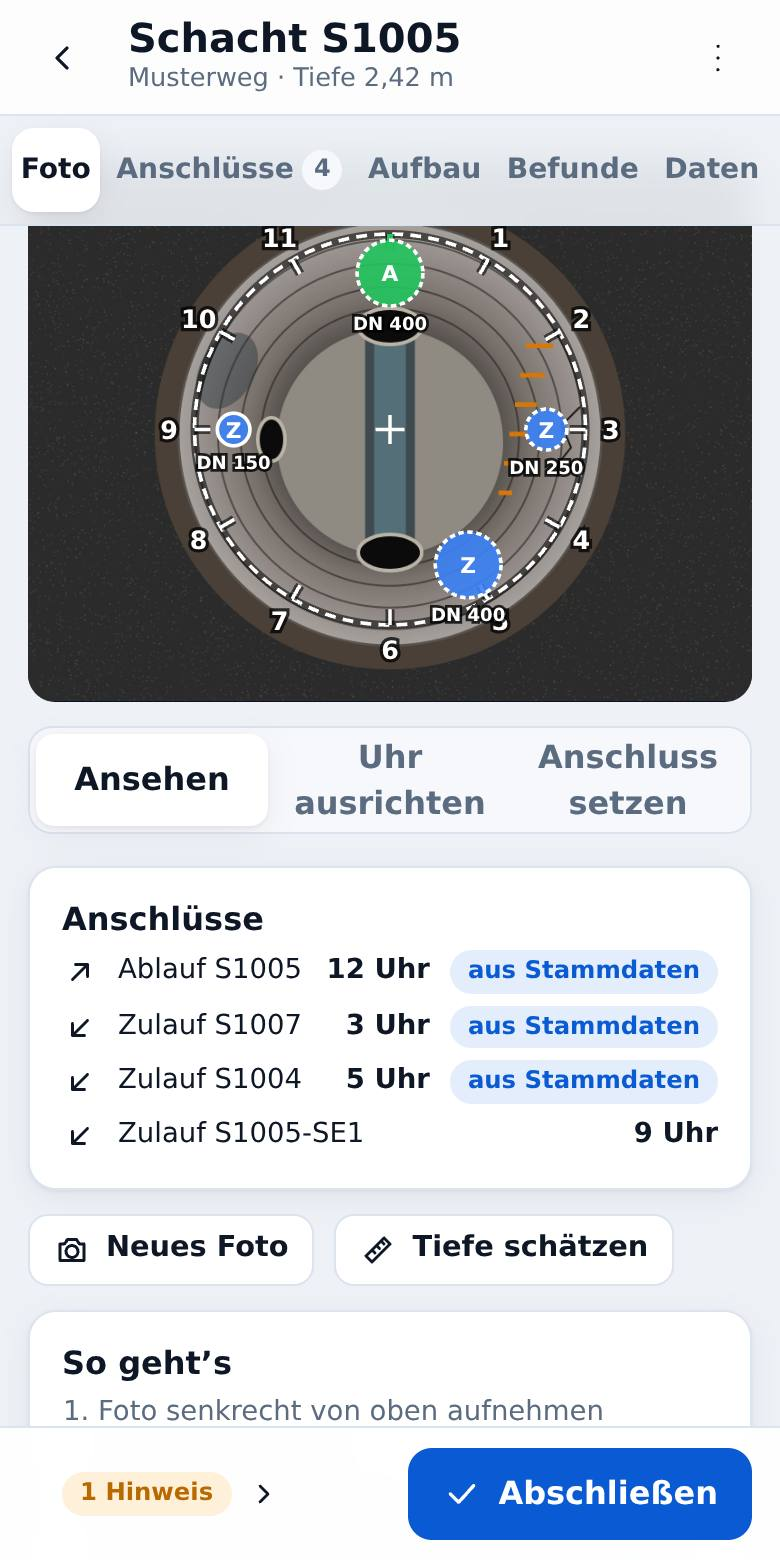
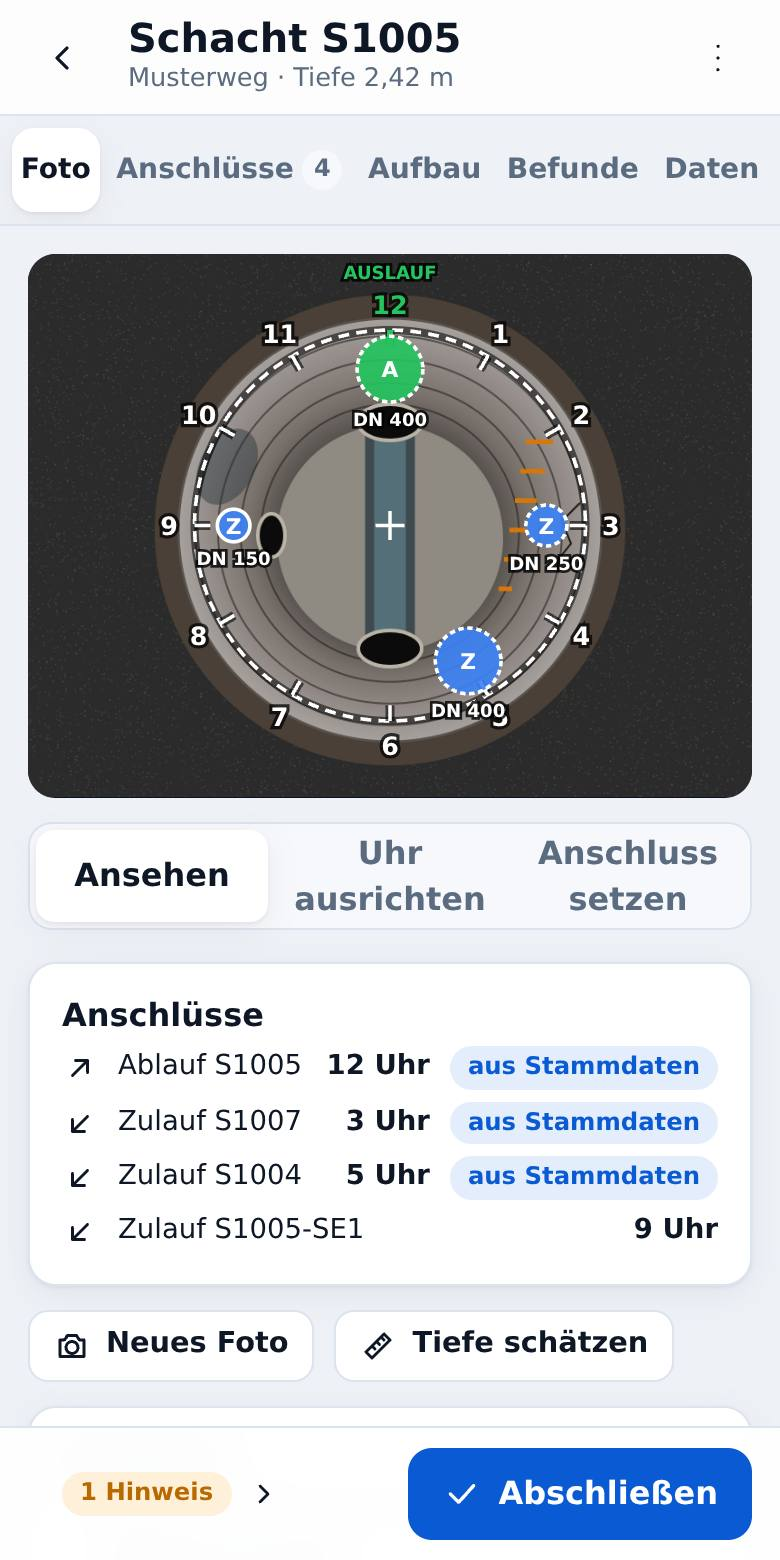
3D-Modell: Gerinne folgt dem Hauptzulauf
- Gerinne verläuft vom Hauptzulauf (tiefster Zulauf, bei gleicher Höhe der
  größte) im Bogen zum Auslauf statt immer gerade von 6 nach 12 Uhr; bei
  gegenüberliegenden Anschlüssen weiterhin gerade
- Berme links und rechts an den Verlauf angepasst, Rinne als Halbschale entlang
  der Kurve; gilt auch für das 3D-Bild im PDF-Protokoll
- Geometrie als reine Funktion (gerinneVerlauf) mit Tests; Bilder der
  Info-Seite neu erzeugt; Version 0.6.3

Claude-Session: https://claude.ai/code/session_01FwQYApyVF8ufwKu8TMpCht

Changed region(s): [[0.0308, 0.1231, 0.9846, 0.9231]]

diff --git a/app/js/components/modell3d.js b/app/js/components/modell3d.js
@@ -27,6 +27,65 @@ function anschlussHoehe(c, T) {
   return c.lageMode === 'oben' ? Math.max(0, T - v) : v;
 }
 
+// Draufsicht: Uhrzeit -> Richtung in der x/z-Ebene (12 Uhr = -z, 3 Uhr = +x)
+const richtung = (clock) => { const p = (Number(clock) % 12) * Math.PI / 6; return [Math.sin(p), -Math.cos(p)]; };
+
+/**
+ * Gerinne-Anschlüsse: Auslauf (Bezug, sonst erster Auslauf) und Hauptzulauf = tiefster Zulauf,
+ * bei gleicher Höhe (± 5 cm) der größte. Ohne Zulauf läuft das Gerinne gerade von gegenüber.
+ */
+export function gerinneAnschluesse(connections = [], T = 0) {
+  const mitUhr = connections.filter((c) => c.clock);
+  const aus = mitUhr.find((c) => c.dir === 'out' && c.isReference) || mitUhr.find((c) => c.dir === 'out');
+  const zu = mitUhr.filter((c) => c.dir === 'in');
+  let haupt = null;
+  if (zu.length) {
+    const tief = Math.min(...zu.map((c) => anschlussHoehe(c, T)));
+    haupt = zu.filter((c) => anschlussHoehe(c, T) <= tief + 0.05).sort((a, b) => (Number(b.dn) || 0) - (Number(a.dn) || 0))[0];
+  }
+  const uhrAus = aus ? Number(aus.clock) % 12 : 0;
+  let uhrZu = haupt ? Number(haupt.clock) % 12 : (uhrAus + 6) % 12;
+  if (uhrZu === uhrAus) uhrZu = (uhrAus + 6) % 12; // Zulauf genau am Auslauf: gerade durch
+  return { aus, haupt, uhrAus, uhrZu };
+}
+
+/**
+ * Verlauf des Gerinnes in der Draufsicht (ohne three.js, testbar): Achse als kubische Bézierkurve von
+ * der Wand beim Hauptzulauf zur Wand beim Auslauf (Hilfspunkte 30 % des Radius vor der Mitte – bei
+ * gegenüberliegenden Anschlüssen eine Gerade), dazu die Ränder links/rechts im Abstand `w` als
+ * Umriss der Berme. Punkte als [x, z]; liefert {achse, tangenten, links, rechts}.
+ */
+export function gerinneVerlauf({ uhrZu, uhrAus, rInnen, w, n = 48 }) {
+  const [ix, iz] = richtung(uhrZu);
+  const [ox, oz] = richtung(uhrAus);
+  const P = [[ix * rInnen, iz * rInnen], [ix * rInnen * 0.3, iz * rInnen * 0.3], [ox * rInnen * 0.3, oz * rInnen * 0.3], [ox * rInnen, oz * rInnen]];
+  const bez = (t) => {
+    const u = 1 - t, a = u * u * u, b = 3 * u * u * t, c = 3 * u * t * t, d = t * t * t;
+    return [a * P[0][0] + b * P[1][0] + c * P[2][0] + d * P[3][0], a * P[0][1] + b * P[1][1] + c * P[2][1] + d * P[3][1]];
+  };
+  const abl = (t) => {
+    const u = 1 - t;
+    const dx = 3 * u * u * (P[1][0] - P[0][0]) + 6 * u * t * (P[2][0] - P[1][0]) + 3 * t * t * (P[3][0] - P[2][0]);
+    const dz = 3 * u * u * (P[1][1] - P[0][1]) + 6 * u * t * (P[2][1] - P[1][1]) + 3 * t * t * (P[3][1] - P[2][1]);
+    const l = Math.hypot(dx, dz) || 1;
+    return [dx / l, dz / l];
+  };
+  const achse = [], tangenten = [];
+  for (let i = 0; i <= n; i++) { achse.push(bez(i / n)); tangenten.push(abl(i / n)); }
+  // Ränder; Punkte, die in engen Bögen rückwärts laufen würden, weglassen (keine Schleifen)
+  const rand = (s) => {
+    const roh = achse.map(([x, z], i) => { const [tx, tz] = tangenten[i]; return [x - tz * w * s, z + tx * w * s]; });
+    const out = [roh[0]];
+    for (let i = 1; i < roh.length; i++) {
+      const q = out[out.length - 1];
+      const [tx, tz] = tangenten[i];
+      if ((roh[i][0] - q[0]) * tx + (roh[i][1] - q[1]) * tz > 1e-4 || i === roh.length - 1) out.push(roh[i]);
+    }
+    return out;
+  };
+  return { achse, tangenten, links: rand(1), rechts: rand(-1) };
+}
+
 /**
  * Szene aufbauen. Liefert {group, masse, center, size}.
  * @param THREE three.js-Modul
@@ -112,36 +171,77 @@ export function baueSchacht(THREE, { bauteile, inspection }) {
   deckel.rotation.set(-0.35, 0, 0.25);
   g.add(deckel);
 
-  // Berme mit Gerinne (gerade vom Zulauf gegenüber zum Auslauf bei 12 Uhr)
-  const out = (inspection?.connections || []).find((c) => c.dir === 'out');
-  const dnOut = Math.min(0.8, Math.max(0.15, (Number(out?.dn) || 300) / 1000));
+  // Berme mit Gerinne: vom Hauptzulauf im Bogen zum Auslauf (bei gegenüberliegenden Anschlüssen gerade)
+  const ga = gerinneAnschluesse(inspection?.connections || [], T);
+  const dnOut = Math.min(0.8, Math.max(0.15, (Number(ga.aus?.dn) || 300) / 1000));
   const rC = dnOut / 2;
   const rInnen = M.unterteilDa ? (M.unterteil.eckig ? Math.min(M.unterteil.l, M.unterteil.w) / 2 : rU) : rOben;
   const bisScheitel = ['1', '3', '4'].includes(M.gerinne);
   const hBerme = !M.gerinne ? 0 : bisScheitel ? dnOut : rC;
   if (M.gerinne && M.unterteilDa && rInnen > rC + 0.05) {
-    const w = rC;
-    const side = (sgn) => {
-      const s = new THREE.Shape();
-      const a = Math.acos(Math.min(0.999, w / rInnen));
-      const y0 = Math.sqrt(rInnen * rInnen - w * w);
-      s.moveTo(sgn * w, -y0);
-      if (sgn > 0) s.absarc(0, 0, rInnen, -a, a, false);
-      else s.absarc(0, 0, rInnen, Math.PI + a, Math.PI - a, true);
-      s.lineTo(sgn * w, -y0);
-      const geo = new THREE.ExtrudeGeometry(s, { depth: hBerme, bevelEnabled: false, curveSegments: 32 });
+    const v = gerinneVerlauf({ uhrZu: ga.uhrZu, uhrAus: ga.uhrAus, rInnen, w: rC });
+    // Berme: Fläche zwischen einem Gerinnerand und der Wand auf derselben Seite (s = +1 links, -1 rechts)
+    const naechster = ([x, z]) => {
+      let k = 0, best = Infinity;
+      v.achse.forEach(([ax, az], i) => { const d = (ax - x) ** 2 + (az - z) ** 2; if (d < best) { best = d; k = i; } });
+      return k;
+    };
+    const seite = (s) => {
+      const rand = (s > 0 ? v.links : v.rechts).map(([x, z]) => [x, z]);
+      const aufWand = ([x, z]) => { const l = Math.hypot(x, z) || 1; return [x / l * rInnen, z / l * rInnen]; };
+      rand[0] = aufWand(rand[0]);
+      rand[rand.length - 1] = aufWand(rand[rand.length - 1]);
+      const a0 = Math.atan2(rand.at(-1)[1], rand.at(-1)[0]);
+      const a1 = Math.atan2(rand[0][1], rand[0][0]);
+      // Wandbogen vom Ende zurück zum Anfang – in die Richtung, die auf der richtigen Seite liegt
+      const bogen = (dir) => {
+        let d = a1 - a0;
+        if (dir > 0 && d <= 0) d += Math.PI * 2;
+        if (dir < 0 && d >= 0) d -= Math.PI * 2;
+        return Array.from({ length: 33 }, (_, i) => { const a = a0 + d * i / 32; return [Math.cos(a) * rInnen, Math.sin(a) * rInnen]; });
+      };
+      const passt = (b) => {
+        const m = b[16];
+        const k = naechster(m);
+        const [tx, tz] = v.tangenten[k];
+        return ((m[0] - v.achse[k][0]) * -tz + (m[1] - v.achse[k][1]) * tx) * s > 0;
+      };
+      const b1 = bogen(1);
+      const bogenPunkte = passt(b1) ? b1 : bogen(-1);
+      const sh = new THREE.Shape();
+      const pts = [...rand, ...bogenPunkte.slice(1, -1)];
+      sh.moveTo(pts[0][0], -pts[0][1]); // Form in x/y, später gekippt: y = -z
+      for (const [x, z] of pts.slice(1)) sh.lineTo(x, -z);
+      sh.closePath();
+      const geo = new THREE.ExtrudeGeometry(sh, { depth: hBerme, bevelEnabled: false, curveSegments: 32 });
       const m = new THREE.Mesh(geo, mat(FARBEN.berme));
       m.rotation.x = -Math.PI / 2; // Form liegt in x/z, Extrusion nach oben
       g.add(m);
     };
-    side(1); side(-1);
-    const rinne = new THREE.Mesh(
-      new THREE.CylinderGeometry(rC, rC, rInnen * 2, 32, 1, true, -Math.PI / 2, Math.PI), // untere Halbschale
-      mat(FARBEN.gerinne),
-    );
-    rinne.rotation.x = Math.PI / 2;
-    rinne.position.y = rC;
-    g.add(rinne);
+    seite(1); seite(-1);
+    // Rinne: untere Halbschale entlang der Achse
+    const K = 16;
+    const pos = [];
+    const idx = [];
+    v.achse.forEach(([x, z], i) => {
+      const [tx, tz] = v.tangenten[i];
+      const nx = -tz, nz = tx;
+      for (let k = 0; k <= K; k++) {
+        const th = Math.PI * k / K;
+        pos.push(x + nx * rC * Math.cos(th), rC - rC * Math.sin(th), z + nz * rC * Math.cos(th));
+      }
+    });
+    for (let i = 0; i < v.achse.length - 1; i++) {
+      for (let k = 0; k < K; k++) {
+        const a = i * (K + 1) + k, b = a + K + 1;
+        idx.push(a, b, a + 1, a + 1, b, b + 1);
+      }
+    }
+    const rg = new THREE.BufferGeometry();
+    rg.setAttribute('position', new THREE.Float32BufferAttribute(pos, 3));
+    rg.setIndex(idx);
+    rg.computeVertexNormals();
+    g.add(new THREE.Mesh(rg, mat(FARBEN.gerinne)));
   }
 
   // Anschlüsse in Uhrlage und Höhe

diff --git a/app/js/brand.js b/app/js/brand.js
@@ -1,7 +1,7 @@
 // Herstellerangaben der App (erscheinen in Einstellungen, Berichten und Exportdateien).
 
 export const APP_NAME = 'Schachtblick';
-export const APP_VERSION = '0.6.2';
+export const APP_VERSION = '0.6.3';
 export const VENDOR = 'MMSE Software Engineering';
 export const VENDOR_URL = 'https://www.mmse-software.com';
 export const VENDOR_WEB = 'www.mmse-software.com';

diff --git a/app/sw.js b/app/sw.js
@@ -1,5 +1,5 @@
 // Service Worker: macht die App offline-fähig (App-Dateien im Cache, API nie cachen).
-const VERSION = 'schachtblick-v15';
+const VERSION = 'schachtblick-v16';
 const ASSETS = [
   './', './index.html', './manifest.webmanifest', './css/app.css',
   './icons/icon.svg', './icons/icon-192.png', './icons/icon-512.png', './icons/icon-180.png', './icons/mmse-logo.png',

diff --git a/CLAUDE.md b/CLAUDE.md
@@ -50,7 +50,7 @@ node tools/make-bilder.mjs http://127.0.0.1:8080/ /tmp/s.jpg   # screenshots for
 - `sw.js` caches an explicit `ASSETS` list: add new JS/CSS files there.
 - `window.SB_DEMO` (set only by the published artifact preview page) switches export to "show XML" instead of download and hides print.
 - Reports: `lib/pdf.js` is a minimal PDF writer (A4, top-left coordinates, Helvetica/Helvetica-Bold with WinAnsi encoding – characters outside CP1252 are replaced, widths in `lib/pdf-fonts.js`; JPEG only via DCTDecode). `lib/xlsx.js` writes inline-string XLSX via `lib/zip.js`. `report/protokoll.js` (`protokollPdf`) and `report/aufmass.js` (`aufmassDaten/aufmassPdf/aufmassXlsx`) are DOM-free and unit-tested; `views/berichte.js` does the browser part (photo scaling, overview image with clock overlay, logo from `settings.logo` as JPEG data URL, download/share via `offerFile`).
-- `components/modell3d.js` lazy-loads the vendored three.js (`app/vendor/three/`, OrbitControls import rewritten to a relative path) and builds the cut-away manhole from `modellMasse()`; `schachtModellBild()` renders a JPEG for the PDF. The inspection tab „Aufbau“ (`views/aufbau.js`) returns a cleanup that disposes the WebGL view.
+- `components/modell3d.js` lazy-loads the vendored three.js (`app/vendor/three/`, OrbitControls import rewritten to a relative path) and builds the cut-away manhole from `modellMasse()`; the channel (Gerinne) runs from the main inflow (lowest inflow, ties ±5 cm → largest DN; `gerinneAnschluesse()`) to the outflow along a cubic Bézier (`gerinneVerlauf()`, pure and unit-tested in `tests/gerinne.test.mjs`) – straight when they are opposite – and the berm is extruded from the areas between channel edges and wall; `schachtModellBild()` renders a JPEG for the PDF. The inspection tab „Aufbau“ (`views/aufbau.js`) returns a cleanup that disposes the WebGL view.
 - Multi-tenant client: `sync.js` applies server company data (`applyFirma`) into settings (`firmaZentral`); `views/betrieb.js` (operator console, `#/betrieb`), `views/zugang.js` (`#/einladung/<token>`, `#/passwort/<token>`).
 - Plans: **Basis** = no account, data only on the device, XML export (ISYBAU/M150) locked; **Pro** = company account on the server. Gate exports only via `sync.xmlErlaubt()` (uses the cached `auth.lizenz`, works offline; `window.SB_DEMO` always allowed). PDF reports/Aufmaß stay free. `views/konto.js` holds the plan page (`#/pro`), self-registration (`#/registrieren`, confirm link `#/registrierung/<token>`), „Abo & Verträge“ for company admins (`#/konto`: accept AGB/AVV, book/change/cancel Pro) and the contract pages (`#/agb`, `#/avv`). Contract texts (drafts) live in `data/vertraege.js`; their versions must equal `SB_VERTRAG` in `app/api/lib/konto.php` (unit-tested) – bump both for content changes so admins re-accept. `report/vertrag.js` renders a contract as PDF with the acceptance record. Prices shown come from the server (`ping` → `plattform`), `brand.js` `PLATTFORM_STANDARD` is only the offline fallback; the donation link is `SPENDEN_URL`.
 - Public face: `app/schachtinspektion.html` is a static, crawlable info page (own inline CSS, no JS); `index.html` and it carry Open Graph/Twitter tags for link previews (WhatsApp) and SoftwareApplication JSON-LD; `robots.txt`/`sitemap.xml` sit in `app/`. The public URL `https://schachtblick.mmse-software.com/` is hard-coded there and in `brand.js` `APP_URL` (`tests/seo.test.mjs` checks they agree and that referenced files exist). `tools/make-bilder.mjs` regenerates `app/bilder/*.jpg` and `app/og-bild.jpg` from the demo project (needs the app running). Prices on the info page are static text – update them when the platform prices change.
